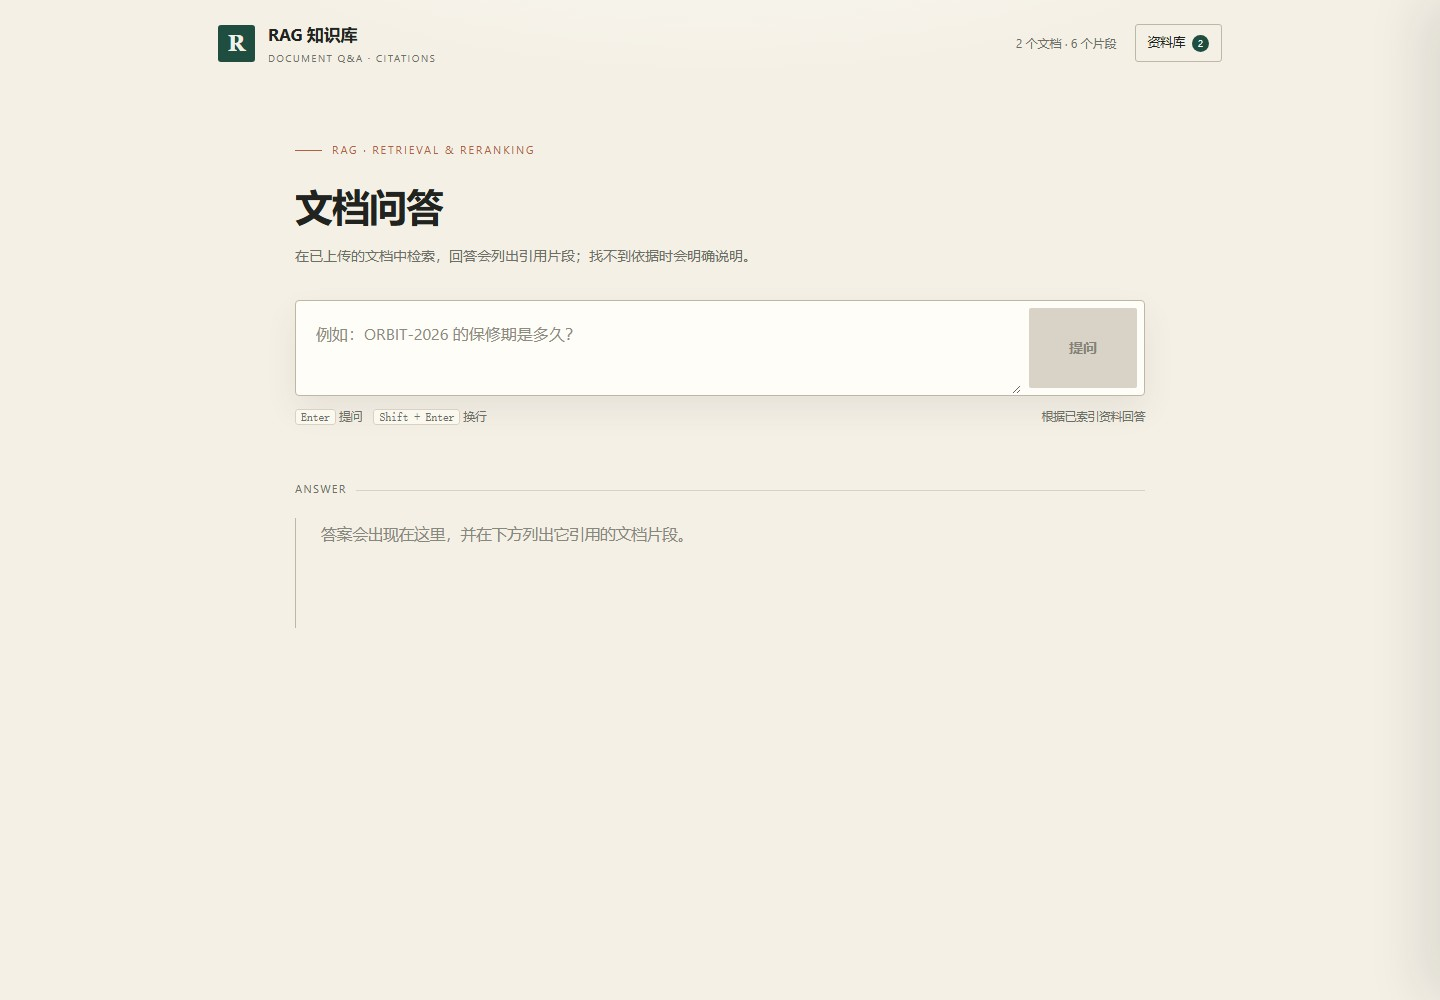
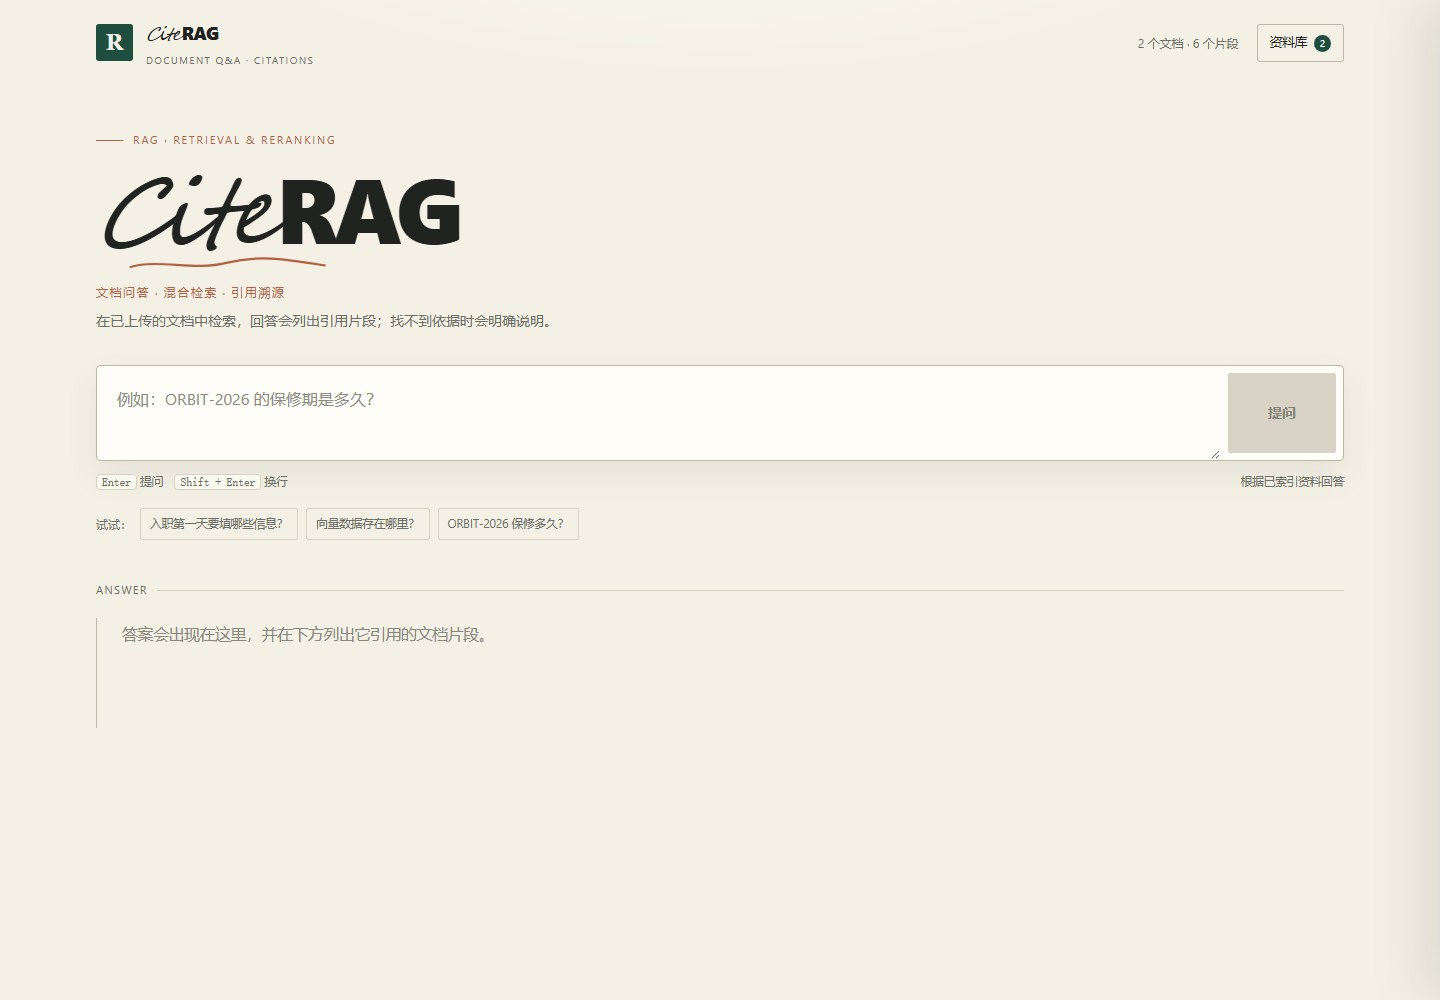
加宽 RAG 页面并加入 CiteRAG 字标
主内容宽度改为 1320，搜索/答案区域不再局促；品牌标题改为 CiteRAG 手写体 + 粗体字标和手绘下划线，增加示例问题入口。

diff --git a/static/index.html b/static/index.html
@@ -3,7 +3,7 @@
 <head>
   <meta charset="utf-8">
   <meta name="viewport" content="width=device-width, initial-scale=1">
-  <title>RAG 知识库问答</title>
+  <title>CiteRAG · 文档问答</title>
   <style>
     :root {
       --paper: #f4f0e6;
@@ -35,7 +35,7 @@
     button, input, textarea { font: inherit; }
     button { cursor: pointer; }
     button:disabled { cursor: not-allowed; opacity: .45; }
-    .page { max-width: 1060px; margin: 0 auto; padding: 0 28px 80px; }
+    .page { max-width: 1320px; margin: 0 auto; padding: 0 36px 80px; }
     .topbar {
       display: flex; align-items: center; justify-content: space-between;
       gap: 18px; height: 86px;
@@ -46,7 +46,9 @@
       background: var(--forest); color: #f4f0e6; border-radius: 3px;
       font-family: var(--serif); font-size: 22px; font-weight: 700;
     }
-    .brand strong { display: block; font-size: 17px; font-weight: 650; letter-spacing: -.2px; }
+    .brand strong { display: flex; align-items: baseline; gap: 2px; font-size: 18px; letter-spacing: -.5px; }
+    .brand .cite { font-family: "Segoe Script", "Brush Script MT", Georgia, serif; font-style: italic; font-weight: 400; letter-spacing: -1px; }
+    .brand .rag { font-weight: 800; letter-spacing: -.8px; }
     .brand small {
       display: block; color: var(--muted); margin-top: 1px;
       font-size: 9.5px; letter-spacing: 1.7px;
@@ -64,23 +66,40 @@
       display: grid; place-items: center; min-width: 17px; height: 17px;
       border-radius: 9px; background: var(--forest); color: #fff; font-size: 10px;
     }
-    .hero { padding: clamp(30px, 5.5vh, 64px) 0 0; max-width: 850px; margin: 0 auto; }
+    .hero { padding: clamp(26px, 4.5vh, 54px) 0 0; max-width: 100%; margin: 0 auto; }
     .eyebrow {
       display: flex; align-items: center; gap: 10px;
       color: var(--clay); font-size: 11px; letter-spacing: 1.8px;
     }
     .eyebrow::before { content: ""; width: 27px; height: 1px; background: var(--clay); }
-    .hero h1 {
-      margin: 20px 0 13px;
-      font-family: Inter, "Segoe UI", "Microsoft YaHei", sans-serif;
-      font-size: clamp(28px, 3.2vw, 38px);
-      font-weight: 650;
-      letter-spacing: -1px;
-      line-height: 1.35;
-      color: var(--ink);
+    .wordmark {
+      position: relative; display: inline-flex; align-items: baseline; gap: 7px;
+      margin: 14px 0 23px; line-height: .92; letter-spacing: -4px;
+      color: var(--ink); font-size: clamp(58px, 7vw, 92px);
     }
-    .hero h1 em { color: var(--clay); font-style: normal; }
-    .hero p { margin: 0; color: var(--muted); max-width: 620px; font-size: 14px; }
+    .wordmark .cite {
+      font-family: "Segoe Script", "Brush Script MT", Georgia, serif;
+      font-style: italic; font-weight: 400; letter-spacing: -5px;
+    }
+    .wordmark .rag {
+      font-family: Inter, "Segoe UI", "Microsoft YaHei", sans-serif;
+      font-weight: 800; letter-spacing: -6px;
+    }
+    .signature {
+      position: absolute; left: 2px; bottom: -13px; width: 72%; height: 15px;
+      color: var(--clay); overflow: visible;
+    }
+    .tagline {
+      margin: 0 0 6px; color: var(--clay); font-size: 12px;
+      letter-spacing: 1.5px; text-transform: uppercase;
+    }
+    .hero-sub { margin: 0; color: var(--muted); max-width: 760px; font-size: 14px; }
+    .examples { display: flex; flex-wrap: wrap; align-items: center; gap: 8px; margin-top: 16px; color: var(--muted); font-size: 12px; }
+    .examples button {
+      border: 1px solid var(--line); background: transparent; color: var(--secondary);
+      border-radius: 2px; padding: 5px 9px; font-size: 11.5px;
+    }
+    .examples button:hover { border-color: var(--forest); color: var(--forest); }
     .ask {
       display: flex; align-items: stretch; gap: 0; margin-top: 32px;
       background: #fffdf8; border: 1.5px solid var(--line-strong);
@@ -108,7 +127,7 @@
       font: 10.5px inherit; border: 1px solid var(--line); border-radius: 3px;
       padding: 1px 5px; background: #fbf8f0;
     }
-    .answer-wrap { max-width: 850px; margin: 54px auto 0; }
+    .answer-wrap { max-width: 100%; margin: 42px auto 0; }
     .answer-label {
       display: flex; align-items: center; gap: 9px;
       color: var(--muted); font-size: 10.5px; letter-spacing: 1.7px;
@@ -214,6 +233,8 @@
     }
     @media (max-width: 680px) {
       .page { padding: 0 18px 50px; }
+      .wordmark { font-size: 58px; letter-spacing: -3px; }
+      .signature { width: 76%; }
       .topbar { height: 70px; }
       .count { display: none; }
       .hero { padding-top: 34px; }
@@ -236,7 +257,7 @@
     <header class="topbar">
       <div class="brand">
         <div class="mark">R</div>
-        <div><strong>RAG 知识库</strong><small>DOCUMENT Q&amp;A · CITATIONS</small></div>
+        <div><strong><span class="cite">Cite</span><span class="rag">RAG</span></strong><small>DOCUMENT Q&amp;A · CITATIONS</small></div>
       </div>
       <div class="top-actions">
         <span class="count" id="topCount">0 个文档 · 0 个片段</span>
@@ -248,8 +269,14 @@
 
     <section class="hero">
       <div class="eyebrow">RAG · RETRIEVAL &amp; RERANKING</div>
-      <h1>文档问答</h1>
-      <p>在已上传的文档中检索，回答会列出引用片段；找不到依据时会明确说明。</p>
+      <h1 class="wordmark" aria-label="CiteRAG">
+        <span class="cite">Cite</span><span class="rag">RAG</span>
+        <svg class="signature" viewBox="0 0 240 18" aria-hidden="true">
+          <path d="M3 12 C38 2, 78 17, 118 7 S 190 3, 236 10" fill="none" stroke="currentColor" stroke-width="2.6" stroke-linecap="round"/>
+        </svg>
+      </h1>
+      <p class="tagline">文档问答 · 混合检索 · 引用溯源</p>
+      <p class="hero-sub">在已上传的文档中检索，回答会列出引用片段；找不到依据时会明确说明。</p>
 
       <div class="ask">
         <textarea id="question" maxlength="500" placeholder="例如：ORBIT-2026 的保修期是多久？"></textarea>
@@ -258,6 +285,12 @@
       <div class="under-search">
         <span><kbd>Enter</kbd> 提问　<kbd>Shift + Enter</kbd> 换行</span>
         <span id="searchHint">先上传资料，再开始提问</span>
+      </div>
+      <div class="examples">
+        <span>试试：</span>
+        <button type="button" data-question="新员工入职第一天需要在人事系统中完善哪些信息？">入职第一天要填哪些信息？</button>
+        <button type="button" data-question="企业智能知识库系统的向量数据通常存储在哪里？">向量数据存在哪里？</button>
+        <button type="button" data-question="ORBIT-2026 的保修期是多久？">ORBIT-2026 保修多久？</button>
       </div>
     </section>
 
@@ -527,6 +560,13 @@
       }
     });
     $("askBtn").addEventListener("click", ask);
+    document.querySelectorAll(".examples button").forEach((button) => {
+      button.addEventListener("click", () => {
+        $("question").value = button.dataset.question || "";
+        $("question").focus();
+        $("askBtn").disabled = state.busy || !$("question").value.trim();
+      });
+    });
     refresh();
   </script>
 </body>
